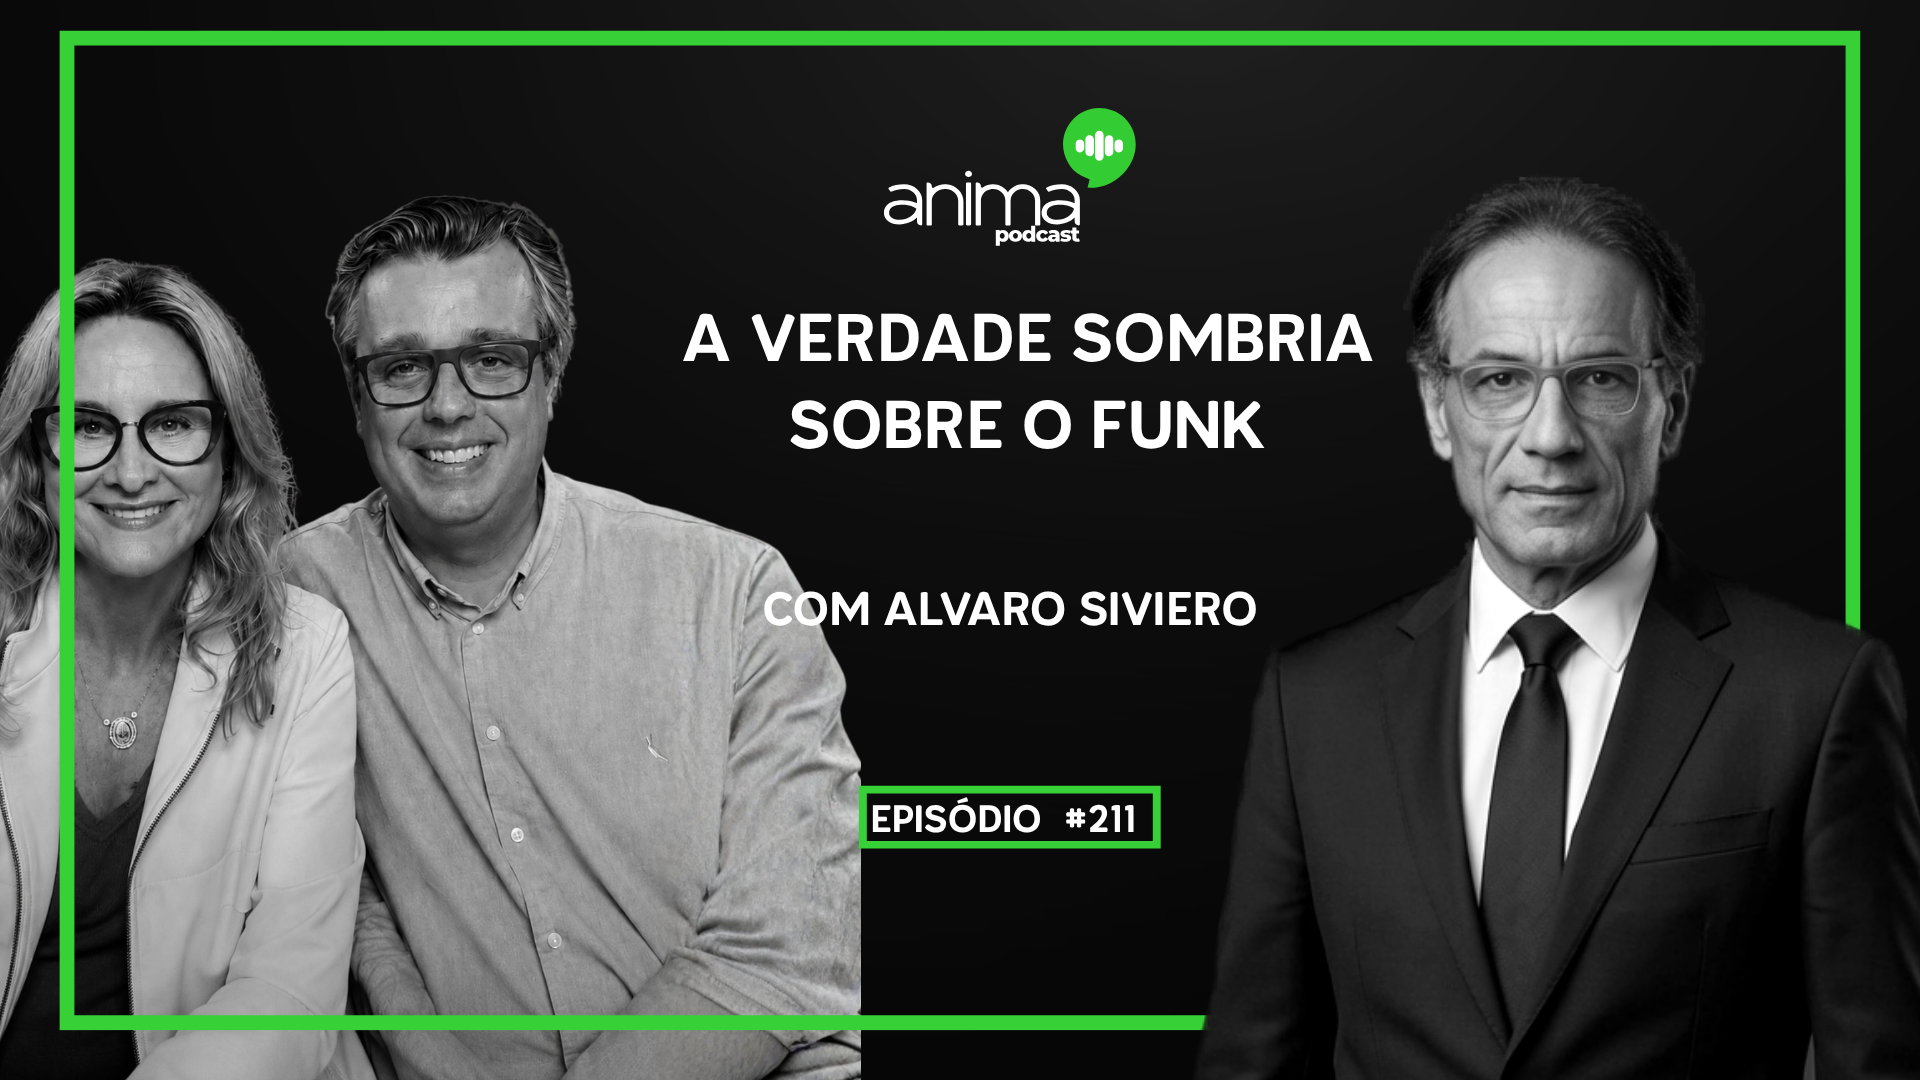
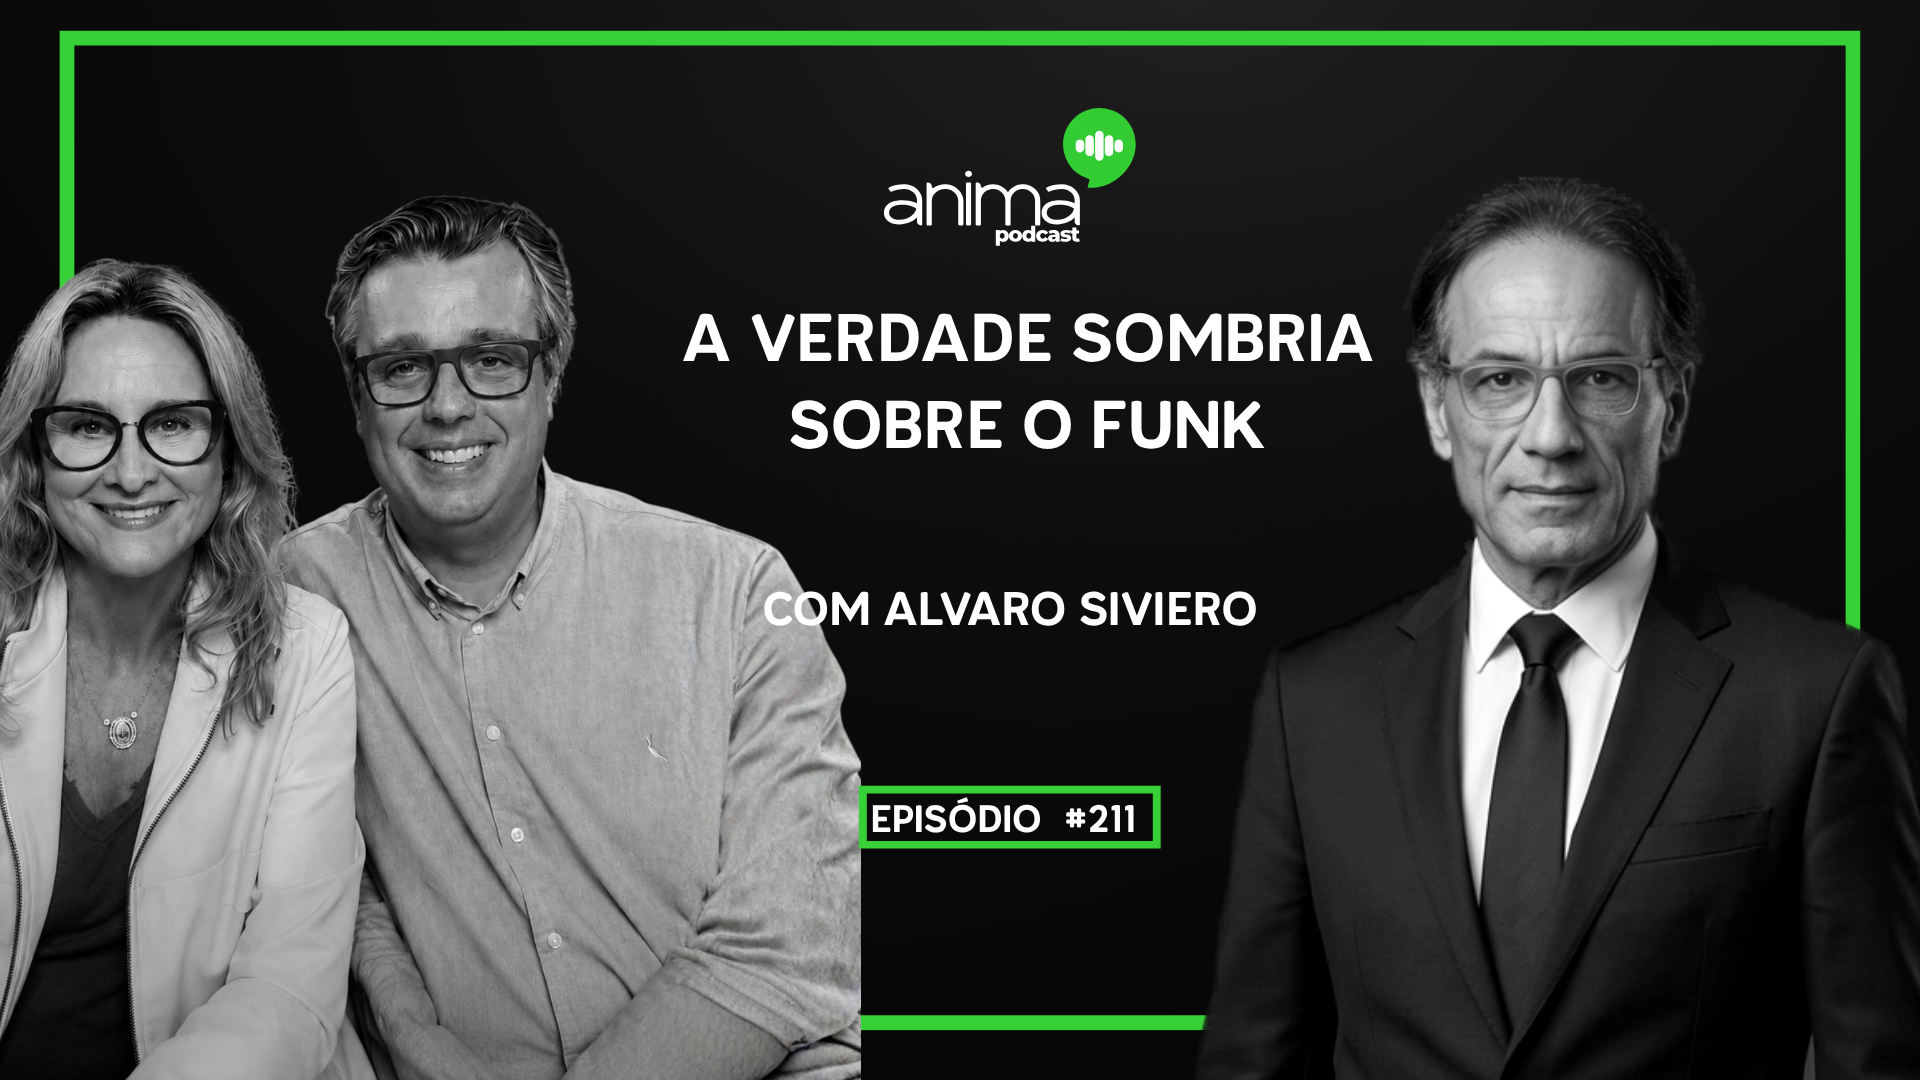
Casal de apresentadores corrigido: casal na frente da tarja verde (lote Template 2, 25 pgs)

Changed region(s): [[0.0312, 0.2444, 0.4375, 0.9778]]

diff --git a/review/casal-lote/index.html b/review/casal-lote/index.html
@@ -1,4 +1,4 @@
-<title>Anima — Casal novo (lote Template 2)</title>
+<title>Anima - Casal novo (lote Template 2)</title>
 <style>
 :root{--bg:#0c0e0d;--card:#161a18;--cb:#232a26;--ink:#f3f6f4;--muted:#9aa49e;--acc:#37d137}
 body{margin:0;background:var(--bg);color:var(--ink);font-family:"Segoe UI",system-ui,Arial,sans-serif}
@@ -15,43 +15,43 @@ figcaption{padding:10px 12px;font-size:13px;line-height:1.5}
 .b-skip{background:#20262300;color:var(--muted);border:1px solid var(--cb)}
 .b-info{background:rgba(0,166,230,.12);color:#4bb8ee;border:1px solid rgba(0,166,230,.3)}
 </style>
-<header><h1>Casal novo — lote "Template 2" (25 episódios)</h1>
-<p>Cópia de trabalho <b>DAHT4wC4lb4</b> (o design original DAHRFk8zA-8 foi preservado como backup). 21 episódios tiveram o casal de apresentadores trocado (casal atrás do texto, tudo legível). 3 não têm casal e #279 já tinha a foto única. Confira e aprove.</p></header>
+<header><h1>Casal novo - lote "Template 2" (25 episodios)</h1>
+<p>Copia de trabalho <b>DAHT4wC4lb4</b> (o design original DAHRFk8zA-8 foi preservado como backup). 21 episodios tiveram o casal de apresentadores trocado: o casal agora fica NA FRENTE da tarja verde (sangrando a esquerda) e ATRAS do texto, tudo legivel. 3 nao tem casal e #279 ja tinha a foto unica. Confira e aprove.</p></header>
 <main>
 <figure><img loading="lazy" src="e279.png" alt="#279">
-<figcaption><b>#279</b> <span class="b b-info">já era single (#279)</span><br><span class="t">Os bastidores do filme de Guido Schaffer</span><br><span class="g">com Jayme Monjardim e Suzana Castelo</span></figcaption></figure>
+<figcaption><b>#279</b> <span class="b b-info">ja era single (#279)</span><br><span class="t">Os bastidores do filme de Guido Schaffer</span><br><span class="g">com Jayme Monjardim e Suzana Castelo</span></figcaption></figure>
 <figure><img loading="lazy" src="e268.png" alt="#268">
-<figcaption><b>#268</b> <span class="b b-skip">sem casal</span><br><span class="t">Anima e Santo Flow juntos pela 1ª vez</span><br><span class="g">com Guto Azevedo e Zulene Parente</span></figcaption></figure>
+<figcaption><b>#268</b> <span class="b b-skip">sem casal</span><br><span class="t">Anima e Santo Flow juntos pela 1a vez</span><br><span class="g">com Guto Azevedo e Zulene Parente</span></figcaption></figure>
 <figure><img loading="lazy" src="e260.png" alt="#260">
 <figcaption><b>#260</b> <span class="b b-skip">sem casal</span><br><span class="t">O que esperar de 2026</span><br><span class="g">com Diogo e Vanessa</span></figcaption></figure>
 <figure><img loading="lazy" src="e234.png" alt="#234">
-<figcaption><b>#234</b> <span class="b b-skip">sem casal</span><br><span class="t">Não pecar contra a castidade</span><br><span class="g">com José Roberto e Maria Carolina</span></figcaption></figure>
+<figcaption><b>#234</b> <span class="b b-skip">sem casal</span><br><span class="t">Nao pecar contra a castidade</span><br><span class="g">com Jose Roberto e Maria Carolina</span></figcaption></figure>
 <figure><img loading="lazy" src="e233.png" alt="#233">
-<figcaption><b>#233</b> <span class="b b-ok">casal trocado</span><br><span class="t">Quando o casamento começa a morrer</span><br><span class="g">com Yasmin Fleming</span></figcaption></figure>
+<figcaption><b>#233</b> <span class="b b-ok">casal trocado</span><br><span class="t">Quando o casamento comeca a morrer</span><br><span class="g">com Yasmin Fleming</span></figcaption></figure>
 <figure><img loading="lazy" src="e232.png" alt="#232">
-<figcaption><b>#232</b> <span class="b b-ok">casal trocado</span><br><span class="t">A boa música é remédio para a alma</span><br><span class="g">com Alex Cohen</span></figcaption></figure>
+<figcaption><b>#232</b> <span class="b b-ok">casal trocado</span><br><span class="t">A boa musica e remedio para a alma</span><br><span class="g">com Alex Cohen</span></figcaption></figure>
 <figure><img loading="lazy" src="e231.png" alt="#231">
 <figcaption><b>#231</b> <span class="b b-ok">casal trocado</span><br><span class="t">O quadro que adoecia as pessoas</span><br><span class="g">com Paulo Frade</span></figcaption></figure>
 <figure><img loading="lazy" src="e230.png" alt="#230">
-<figcaption><b>#230</b> <span class="b b-ok">casal trocado</span><br><span class="t">Se eu estivesse no Irã, estaria morta</span><br><span class="g">com Mahsima Nadim</span></figcaption></figure>
+<figcaption><b>#230</b> <span class="b b-ok">casal trocado</span><br><span class="t">Se eu estivesse no Ira, estaria morta</span><br><span class="g">com Mahsima Nadim</span></figcaption></figure>
 <figure><img loading="lazy" src="e229.png" alt="#229">
-<figcaption><b>#229</b> <span class="b b-ok">casal trocado</span><br><span class="t">A verdade sobre o Sudário</span><br><span class="g">com Vera Tostes</span></figcaption></figure>
+<figcaption><b>#229</b> <span class="b b-ok">casal trocado</span><br><span class="t">A verdade sobre o Sudario</span><br><span class="g">com Vera Tostes</span></figcaption></figure>
 <figure><img loading="lazy" src="e228.png" alt="#228">
-<figcaption><b>#228</b> <span class="b b-ok">casal trocado</span><br><span class="t">Eu estava nas garras de Satanás</span><br><span class="g">com Tony Allysson</span></figcaption></figure>
+<figcaption><b>#228</b> <span class="b b-ok">casal trocado</span><br><span class="t">Eu estava nas garras de Satanas</span><br><span class="g">com Tony Allysson</span></figcaption></figure>
 <figure><img loading="lazy" src="e227.png" alt="#227">
-<figcaption><b>#227</b> <span class="b b-ok">casal trocado</span><br><span class="t">Caí protestante, levantei católico</span><br><span class="g">com Frei Angelo Faitanin</span></figcaption></figure>
+<figcaption><b>#227</b> <span class="b b-ok">casal trocado</span><br><span class="t">Cai protestante, levantei catolico</span><br><span class="g">com Frei Angelo Faitanin</span></figcaption></figure>
 <figure><img loading="lazy" src="e226.png" alt="#226">
 <figcaption><b>#226</b> <span class="b b-ok">casal trocado</span><br><span class="t">Fui ateu e comunista</span><br><span class="g">com Gabriel Kanner</span></figcaption></figure>
 <figure><img loading="lazy" src="e225.png" alt="#225">
-<figcaption><b>#225</b> <span class="b b-ok">casal trocado</span><br><span class="t">Não entre no digital sem isso</span><br><span class="g">com Ítalo Marsili</span></figcaption></figure>
+<figcaption><b>#225</b> <span class="b b-ok">casal trocado</span><br><span class="t">Nao entre no digital sem isso</span><br><span class="g">com Italo Marsili</span></figcaption></figure>
 <figure><img loading="lazy" src="e224.png" alt="#224">
 <figcaption><b>#224</b> <span class="b b-ok">casal trocado</span><br><span class="t">Seu casamento pode ser nulo?</span><br><span class="g">com Pe. Alex Nogueira</span></figcaption></figure>
 <figure><img loading="lazy" src="e223.png" alt="#223">
-<figcaption><b>#223</b> <span class="b b-ok">casal trocado</span><br><span class="t">Vá mais rápido para o Céu</span><br><span class="g">com Pe. Renato Teixeira</span></figcaption></figure>
+<figcaption><b>#223</b> <span class="b b-ok">casal trocado</span><br><span class="t">Va mais rapido para o Ceu</span><br><span class="g">com Pe. Renato Teixeira</span></figcaption></figure>
 <figure><img loading="lazy" src="e222.png" alt="#222">
-<figcaption><b>#222</b> <span class="b b-ok">casal trocado</span><br><span class="t">O Rock é satânico?</span><br><span class="g">com Danilo Lopes</span></figcaption></figure>
+<figcaption><b>#222</b> <span class="b b-ok">casal trocado</span><br><span class="t">O Rock e satanico?</span><br><span class="g">com Danilo Lopes</span></figcaption></figure>
 <figure><img loading="lazy" src="e220.png" alt="#220">
-<figcaption><b>#220</b> <span class="b b-ok">casal trocado</span><br><span class="t">Escalando até o Céu</span><br><span class="g">com Luciano Bandeira</span></figcaption></figure>
+<figcaption><b>#220</b> <span class="b b-ok">casal trocado</span><br><span class="t">Escalando ate o Ceu</span><br><span class="g">com Luciano Bandeira</span></figcaption></figure>
 <figure><img loading="lazy" src="e219.png" alt="#219">
 <figcaption><b>#219</b> <span class="b b-ok">casal trocado</span><br><span class="t">A arma contra a gula</span><br><span class="g">com Isa Latuf</span></figcaption></figure>
 <figure><img loading="lazy" src="e218.png" alt="#218">
@@ -59,13 +59,13 @@ figcaption{padding:10px 12px;font-size:13px;line-height:1.5}
 <figure><img loading="lazy" src="e217.png" alt="#217">
 <figcaption><b>#217</b> <span class="b b-ok">casal trocado</span><br><span class="t">A Santa Carona</span><br><span class="g">com Guilherme Cadoiss</span></figcaption></figure>
 <figure><img loading="lazy" src="e216.png" alt="#216">
-<figcaption><b>#216</b> <span class="b b-ok">casal trocado</span><br><span class="t">Encontrei Deus no fundo do poço</span><br><span class="g">com Alam Carrion</span></figcaption></figure>
+<figcaption><b>#216</b> <span class="b b-ok">casal trocado</span><br><span class="t">Encontrei Deus no fundo do poco</span><br><span class="g">com Alam Carrion</span></figcaption></figure>
 <figure><img loading="lazy" src="e214.png" alt="#214">
 <figcaption><b>#214</b> <span class="b b-ok">casal trocado</span><br><span class="t">Os 4 desejos ocultos das mulheres</span><br><span class="g">com Mari Vabo</span></figcaption></figure>
 <figure><img loading="lazy" src="e213.png" alt="#213">
-<figcaption><b>#213</b> <span class="b b-ok">casal trocado</span><br><span class="t">Padre Paulo Ricardo é herege?</span><br><span class="g">com Pedro Affonseca</span></figcaption></figure>
+<figcaption><b>#213</b> <span class="b b-ok">casal trocado</span><br><span class="t">Padre Paulo Ricardo e herege?</span><br><span class="g">com Pedro Affonseca</span></figcaption></figure>
 <figure><img loading="lazy" src="e211.png" alt="#211">
 <figcaption><b>#211</b> <span class="b b-ok">casal trocado</span><br><span class="t">A verdade sombria sobre o funk</span><br><span class="g">com Alvaro Siviero</span></figcaption></figure>
 <figure><img loading="lazy" src="e210.png" alt="#210">
-<figcaption><b>#210</b> <span class="b b-ok">casal trocado</span><br><span class="t">Música católica furando a bolha</span><br><span class="g">com Herrison Pontes e Jessica Dias</span></figcaption></figure>
+<figcaption><b>#210</b> <span class="b b-ok">casal trocado</span><br><span class="t">Musica catolica furando a bolha</span><br><span class="g">com Herrison Pontes e Jessica Dias</span></figcaption></figure>
 </main>
